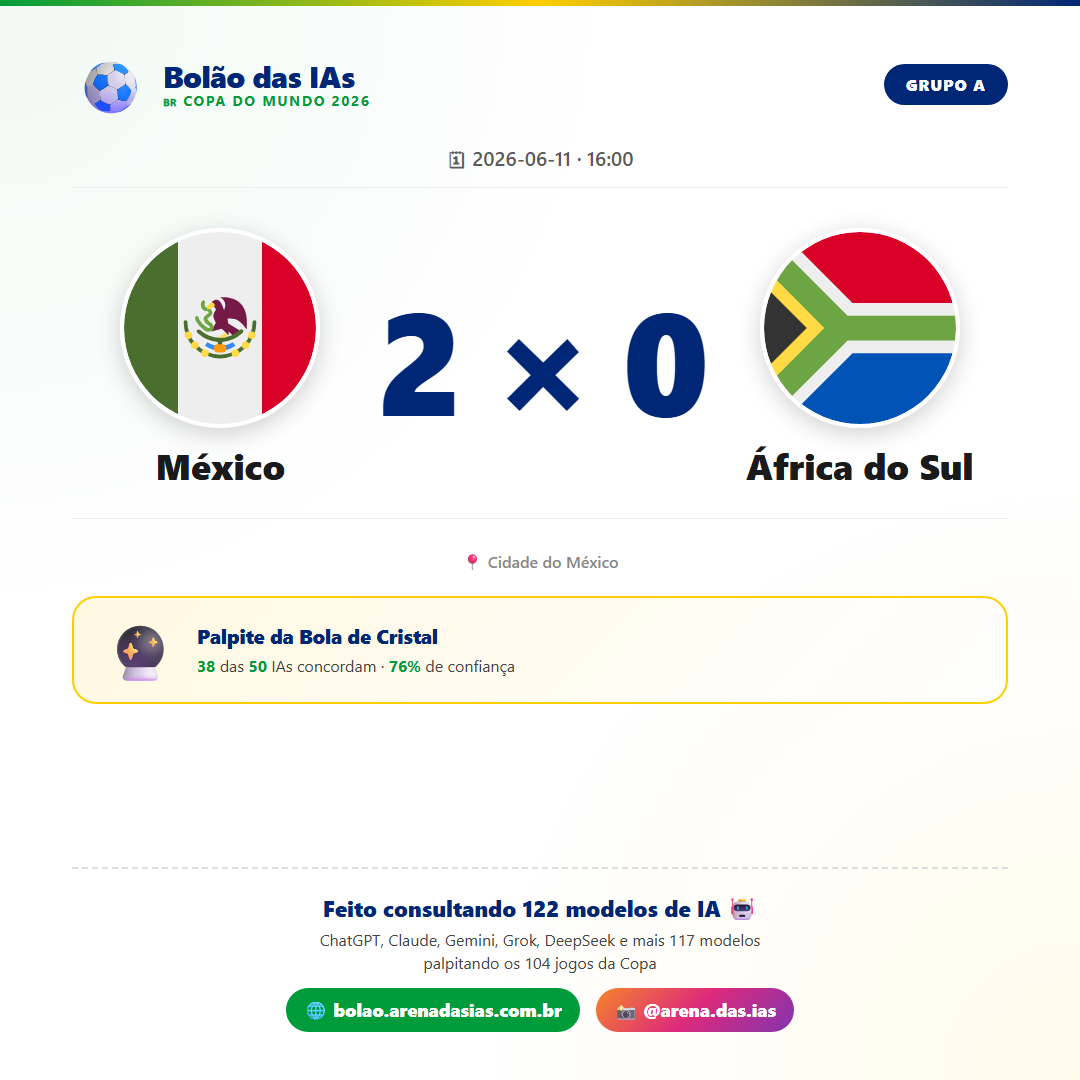
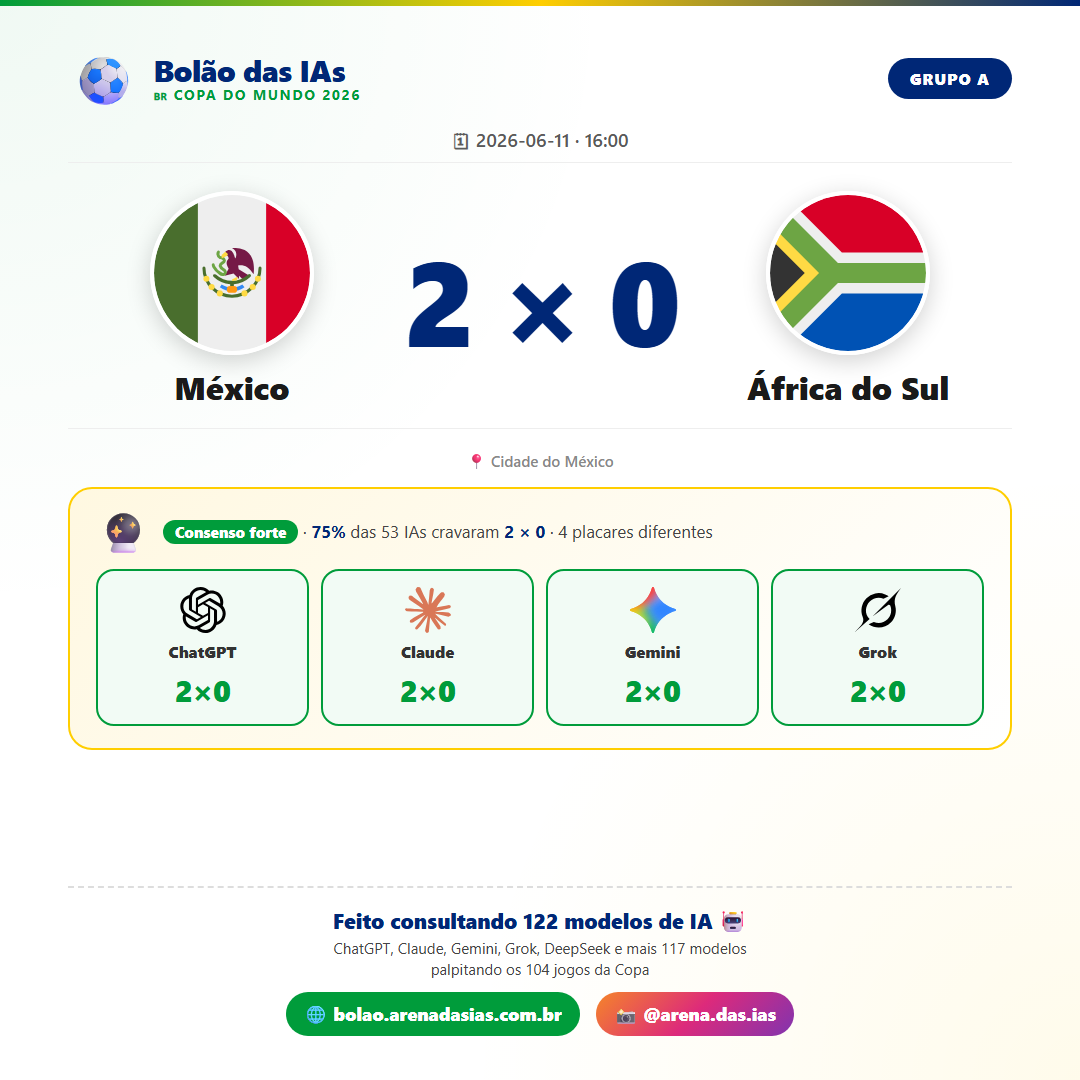
feat(cards): palpites de IAs famosas + grau de consenso nos cards por jogo
Cards de grupo mostram chips de ChatGPT/Claude/Gemini/Grok + badge de força
do consenso. Mata-mata revela o placar consenso (igual ao site/vinhetas) mas
troca os palpites individuais por um teaser até a bola rolar.

diff --git a/marketing/scripts/gerar_cards.js b/marketing/scripts/gerar_cards.js
@@ -1,5 +1,7 @@
 /**
- * Gera 1 PNG 1080x1080 por partida com o palpite consenso (Bola de Cristal).
+ * Gera 1 PNG 1080x1080 por partida com o palpite consenso (Bola de Cristal),
+ * os palpites de IAs famosas (ChatGPT, Claude, Gemini, Grok) e o grau de
+ * consenso entre elas.
  * Saída: ../cards/partida-<numero>.png
  *
  * Uso (na pasta v4):
@@ -26,13 +28,95 @@ delete mapaPaises._README;
 const SITE = "bolao.arenadasias.com.br";
 const INSTA = "@arena.das.ias";
 
-function htmlCard(jogo, bola, totalVotos, confiancaPct) {
+// ── Logos das marcas (inline SVG; o card é renderizado via setContent, sem base URL) ──
+const LOGOS_DIR = path.join(V4, "logos");
+function inlineLogo(file) {
+  try {
+    return fs.readFileSync(path.join(LOGOS_DIR, file), "utf-8");
+  } catch {
+    return "";
+  }
+}
+const LOGO = {
+  chatgpt: inlineLogo("openai.svg"),
+  claude: inlineLogo("anthropic.svg"),
+  gemini: inlineLogo("google.svg"),
+  grok: inlineLogo("xai.svg"),
+};
+
+// IAs famosas a destacar. Para cada uma, tentamos o slug "carro-chefe"; se o
+// jogo não tiver, caímos pro próximo da lista.
+const FAMOSAS = [
+  { nome: "ChatGPT", logo: LOGO.chatgpt, slugs: ["chatgpt-5-thinking", "chatgpt-5", "gpt-4o", "o3"] },
+  { nome: "Claude", logo: LOGO.claude, slugs: ["claude-opus-4-7", "claude-sonnet-4-6", "claude-opus-4-5"] },
+  { nome: "Gemini", logo: LOGO.gemini, slugs: ["gemini-2-5-pro", "gemini-2-5-flash"] },
+  { nome: "Grok", logo: LOGO.grok, slugs: ["grok-4-heavy", "grok-4", "grok-4-fast"] },
+];
+
+function palpiteFamosa(dados, slugs) {
+  if (!dados || !dados.palpites) return null;
+  for (const s of slugs) {
+    const p = dados.palpites[s];
+    if (p) return p;
+  }
+  return null;
+}
+
+function forcaConsenso(pct) {
+  if (pct >= 70) return { label: "Consenso forte", cls: "forte" };
+  if (pct >= 50) return { label: "Consenso moderado", cls: "moderado" };
+  return { label: "IAs divididas", cls: "dividido" };
+}
+
+function htmlCard(jogo, dados) {
   const isoA = mapaPaises[jogo.time_a] || "xx";
   const isoB = mapaPaises[jogo.time_b] || "xx";
+
+  const bola = dados?.bola_de_cristal ?? null;
+  const totalVotos = dados ? Object.keys(dados.palpites || {}).length : 0;
+  // Mata-mata: o placar consenso (bola) é público (igual ao site e às vinhetas),
+  // mas os palpites INDIVIDUAIS de cada IA ficam travados até a bola rolar — daí
+  // o `palpites` vir vazio. Nesse caso trocamos os chips por um teaser.
+  const gated = !!bola && totalVotos === 0;
+  const pct =
+    bola && totalVotos ? Math.round((bola.votos / totalVotos) * 100) : 0;
+  const numDistintos = dados?.consenso ? dados.consenso.length : 0;
   const placar = bola ? `${bola.gols_a} × ${bola.gols_b}` : "—";
-  const subTitle = bola
-    ? `<strong>${bola.votos}</strong> das <strong>${totalVotos}</strong> IAs concordam · <strong>${confiancaPct}%</strong> de confiança`
-    : "Coletando palpites das IAs…";
+  const forca = forcaConsenso(pct);
+
+  // Chips das IAs famosas (fase de grupos — dados públicos) OU teaser travado.
+  const chipsOuTeaser = gated
+    ? `<div class="teaser-travado">
+         <span class="tt-lock">🔒</span>
+         <div class="tt-text">
+           <strong>Quem cravou o quê?</strong> Os palpites de ChatGPT, Claude,
+           Gemini, Grok e das outras IAs são revelados quando a bola rolar.
+           Entra no bolão e crava o seu <strong>antes</strong> delas!
+         </div>
+       </div>`
+    : `<div class="ias-grid">${FAMOSAS.map((f) => {
+        const p = palpiteFamosa(dados, f.slugs);
+        if (!p) {
+          return `<div class="ia-chip vazio">
+            <span class="ia-logo">${f.logo}</span>
+            <span class="ia-nome">${f.nome}</span>
+            <span class="ia-palpite">—</span>
+          </div>`;
+        }
+        const concorda =
+          bola && p.gols_a === bola.gols_a && p.gols_b === bola.gols_b;
+        return `<div class="ia-chip ${concorda ? "agree" : "diff"}">
+          <span class="ia-logo">${f.logo}</span>
+          <span class="ia-nome">${f.nome}</span>
+          <span class="ia-palpite">${p.gols_a}×${p.gols_b}</span>
+        </div>`;
+      }).join("")}</div>`;
+
+  const consensoLinha = !bola
+    ? "Coletando palpites das IAs…"
+    : gated
+      ? `<strong>${bola.votos} de 122 IAs</strong> cravaram <strong>${placar}</strong> — o placar mais provável segundo o consenso`
+      : `<span class="forca ${forca.cls}">${forca.label}</span> · <strong>${pct}%</strong> das ${totalVotos} IAs cravaram <strong>${placar}</strong>${numDistintos > 1 ? ` · ${numDistintos} placares diferentes` : ""}`;
 
   return `<!DOCTYPE html>
 <html lang="pt-BR">
@@ -47,14 +131,12 @@ function htmlCard(jogo, bola, totalVotos, confiancaPct) {
     background: #FFFFFF;
     overflow: hidden; position: relative;
   }
-  /* leve gradient decorativo nas bordas, sem escurecer */
   body::before {
     content: ""; position: absolute; inset: 0; pointer-events: none;
     background:
       radial-gradient(circle at 0% 0%, rgba(0,156,59,0.06), transparent 40%),
       radial-gradient(circle at 100% 100%, rgba(255,206,0,0.08), transparent 40%);
   }
-  /* faixa amarela no topo */
   body::after {
     content: ""; position: absolute; top: 0; left: 0; right: 0;
     height: 6px;
@@ -62,7 +144,7 @@ function htmlCard(jogo, bola, totalVotos, confiancaPct) {
   }
   .wrap {
     position: relative; z-index: 2;
-    padding: 56px 72px 48px;
+    padding: 52px 68px 44px;
     height: 100%;
     display: flex; flex-direction: column;
   }
@@ -70,25 +152,13 @@ function htmlCard(jogo, bola, totalVotos, confiancaPct) {
   /* HEADER */
   .topo {
     display: flex; justify-content: space-between; align-items: center;
-    margin-bottom: 32px;
+    margin-bottom: 22px;
   }
-  .brand {
-    display: flex; align-items: center; gap: 14px;
-  }
-  .brand .ball {
-    font-size: 56px; line-height: 1;
-    transform: rotate(-8deg);
-  }
+  .brand { display: flex; align-items: center; gap: 14px; }
+  .brand .ball { font-size: 52px; line-height: 1; transform: rotate(-8deg); }
   .brand-text { line-height: 1.1; }
-  .brand-title {
-    font-size: 30px; font-weight: 900;
-    letter-spacing: -0.02em; color: #002776;
-  }
-  .brand-sub {
-    font-size: 14px; font-weight: 700;
-    color: #009C3B; letter-spacing: 0.12em;
-    text-transform: uppercase;
-  }
+  .brand-title { font-size: 30px; font-weight: 900; letter-spacing: -0.02em; color: #002776; }
+  .brand-sub { font-size: 14px; font-weight: 700; color: #009C3B; letter-spacing: 0.12em; text-transform: uppercase; }
   .fase {
     background: #002776; color: #fff;
     padding: 10px 22px; border-radius: 999px;
@@ -96,105 +166,83 @@ function htmlCard(jogo, bola, totalVotos, confiancaPct) {
     letter-spacing: 0.06em; text-transform: uppercase;
   }
 
-  /* DATA */
-  .data {
-    text-align: center;
-    font-size: 20px; font-weight: 600;
-    color: #5A5A5A; margin-bottom: 16px;
-  }
+  .data { text-align: center; font-size: 19px; font-weight: 600; color: #5A5A5A; margin-bottom: 10px; }
 
   /* PLACAR */
   .placar-wrap {
     display: flex; align-items: center; justify-content: space-between;
-    gap: 24px;
-    padding: 40px 16px 32px;
+    gap: 20px;
+    padding: 28px 12px 24px;
     border-top: 1px solid #EEE;
     border-bottom: 1px solid #EEE;
-    margin-bottom: 32px;
+    margin-bottom: 22px;
   }
-  .time {
-    flex: 1; text-align: center;
-    display: flex; flex-direction: column; align-items: center; gap: 18px;
-  }
+  .time { flex: 1; text-align: center; display: flex; flex-direction: column; align-items: center; gap: 14px; }
   .bandeira {
-    width: 200px; height: 200px;
-    border-radius: 50%;
+    width: 164px; height: 164px; border-radius: 50%;
     box-shadow: 0 6px 24px rgba(0,0,0,0.18);
-    object-fit: cover;
-    border: 4px solid #FFF;
+    object-fit: cover; border: 4px solid #FFF;
   }
-  .nome {
-    font-size: 36px; font-weight: 900;
-    line-height: 1.1; max-width: 280px;
-    color: #1A1A1A;
-  }
-  .placar {
-    font-size: 144px; font-weight: 900;
-    line-height: 1; letter-spacing: -0.04em;
-    color: #002776;
-    min-width: 240px; text-align: center;
-  }
-  .placar.sem { font-size: 80px; opacity: 0.3; color: #888; }
+  .nome { font-size: 32px; font-weight: 900; line-height: 1.1; max-width: 260px; color: #1A1A1A; }
+  .placar { font-size: 120px; font-weight: 900; line-height: 1; letter-spacing: -0.04em; color: #002776; min-width: 220px; text-align: center; }
+  .placar.sem { font-size: 72px; opacity: 0.3; color: #888; }
 
-  /* LOCAL */
-  .local {
-    text-align: center; font-size: 16px;
-    color: #888; margin-bottom: 24px; font-weight: 500;
-  }
+  .local { text-align: center; font-size: 15px; color: #888; margin-bottom: 16px; font-weight: 500; }
 
-  /* CRISTAL CARD */
-  .cristal {
-    background: linear-gradient(135deg, #FFF8E1 0%, #FFF 100%);
+  /* CONSENSO + IAS FAMOSAS */
+  .opiniao {
+    background: linear-gradient(135deg, #FFF8E1 0%, #FFFFFF 100%);
     border: 2px solid #FFCE00;
     border-radius: 24px;
-    padding: 24px 28px;
-    display: flex; align-items: center; gap: 18px;
-    margin-bottom: 20px;
+    padding: 22px 26px;
+    margin-bottom: 18px;
   }
-  .cristal-emoji { font-size: 56px; line-height: 1; }
-  .cristal-text { flex: 1; }
-  .cristal-titulo {
-    font-size: 20px; font-weight: 900;
-    color: #002776; margin-bottom: 6px;
-    letter-spacing: -0.01em;
+  .op-head {
+    display: flex; align-items: center; gap: 12px; margin-bottom: 18px;
   }
-  .cristal-sub {
-    font-size: 16px; color: #444; line-height: 1.4;
-  }
-  .cristal-sub strong { color: #009C3B; }
+  .op-emoji { font-size: 40px; line-height: 1; }
+  .op-text { font-size: 17px; color: #444; line-height: 1.35; }
+  .op-text strong { color: #002776; }
+  .forca { font-weight: 900; padding: 2px 12px; border-radius: 999px; font-size: 15px; }
+  .forca.forte { background: #009C3B; color: #fff; }
+  .forca.moderado { background: #FFCE00; color: #4A3B00; }
+  .forca.dividido { background: #FF4D8D; color: #fff; }
 
-  /* CTA RODAPÉ */
-  .rodape {
-    margin-top: auto;
-    text-align: center;
-    border-top: 2px dashed #DDD;
-    padding-top: 24px;
+  .ias-grid {
+    display: grid; grid-template-columns: repeat(4, 1fr); gap: 12px;
   }
-  .rodape-titulo {
-    font-size: 22px; font-weight: 800;
-    color: #002776; margin-bottom: 6px;
+  .ia-chip {
+    display: flex; flex-direction: column; align-items: center; gap: 8px;
+    background: #fff; border: 2px solid #ECECEC; border-radius: 18px;
+    padding: 16px 8px 14px;
   }
-  .rodape-sub {
-    font-size: 16px; color: #444; margin-bottom: 14px;
-    line-height: 1.4;
+  .ia-chip.agree { border-color: #009C3B; background: #F2FBF5; }
+  .ia-chip.diff { border-color: #E0E0E0; }
+  .ia-chip.vazio { opacity: 0.45; }
+  .ia-logo { width: 46px; height: 46px; display: inline-flex; align-items: center; justify-content: center; }
+  .ia-logo svg { width: 100%; height: 100%; }
+  .ia-nome { font-size: 16px; font-weight: 800; color: #333; }
+  .ia-palpite { font-size: 30px; font-weight: 900; color: #002776; letter-spacing: -0.02em; }
+  .ia-chip.agree .ia-palpite { color: #009C3B; }
+
+  /* TEASER TRAVADO (mata-mata: palpites individuais ocultos) */
+  .teaser-travado {
+    display: flex; align-items: center; gap: 18px;
+    background: #FFF; border: 2px dashed #FFCE00; border-radius: 18px;
+    padding: 18px 22px;
   }
-  .rodape-links {
-    display: flex; gap: 16px; justify-content: center;
-    align-items: center; flex-wrap: wrap;
-  }
-  .pill {
-    display: inline-flex; align-items: center; gap: 8px;
-    padding: 10px 18px;
-    border-radius: 999px;
-    font-size: 18px; font-weight: 800;
-  }
-  .pill-site {
-    background: #009C3B; color: #fff;
-  }
-  .pill-insta {
-    background: linear-gradient(135deg, #F58529, #DD2A7B, #8134AF);
-    color: #fff;
-  }
+  .tt-lock { font-size: 44px; line-height: 1; flex-shrink: 0; }
+  .tt-text { font-size: 18px; color: #444; line-height: 1.4; }
+  .tt-text strong { color: #002776; }
+
+  /* RODAPÉ */
+  .rodape { margin-top: auto; text-align: center; border-top: 2px dashed #DDD; padding-top: 18px; }
+  .rodape-titulo { font-size: 21px; font-weight: 800; color: #002776; margin-bottom: 4px; }
+  .rodape-sub { font-size: 15px; color: #444; margin-bottom: 12px; line-height: 1.4; }
+  .rodape-links { display: flex; gap: 16px; justify-content: center; align-items: center; flex-wrap: wrap; }
+  .pill { display: inline-flex; align-items: center; gap: 8px; padding: 10px 18px; border-radius: 999px; font-size: 18px; font-weight: 800; }
+  .pill-site { background: #009C3B; color: #fff; }
+  .pill-insta { background: linear-gradient(135deg, #F58529, #DD2A7B, #8134AF); color: #fff; }
 </style>
 </head>
 <body>
@@ -226,12 +274,12 @@ function htmlCard(jogo, bola, totalVotos, confiancaPct) {
 
     ${jogo.local ? `<div class="local">📍 ${jogo.local}</div>` : ""}
 
-    <div class="cristal">
-      <div class="cristal-emoji">🔮</div>
-      <div class="cristal-text">
-        <div class="cristal-titulo">Palpite da Bola de Cristal</div>
-        <div class="cristal-sub">${subTitle}</div>
+    <div class="opiniao">
+      <div class="op-head">
+        <span class="op-emoji">🔮</span>
+        <div class="op-text">${consensoLinha}</div>
       </div>
+      ${chipsOuTeaser}
     </div>
 
     <div class="rodape">
@@ -260,16 +308,15 @@ async function main() {
   });
   const page = await ctx.newPage();
 
+  // filtro opcional por número de jogo via argv (ex.: node gerar_cards.js 1)
+  const soUm = process.argv[2] ? Number(process.argv[2]) : null;
+
   let ok = 0;
   let fail = 0;
   for (const j of jogos) {
+    if (soUm && j.numero !== soUm) continue;
     const dados = palpitesIAs[String(j.numero)];
-    const bola = dados?.bola_de_cristal ?? null;
-    const totalVotos = dados ? Object.keys(dados.palpites).length : 0;
-    const pct = bola && totalVotos
-      ? Math.round((bola.votos / totalVotos) * 100)
-      : 0;
-    const html = htmlCard(j, bola, totalVotos, pct);
+    const html = htmlCard(j, dados);
     try {
       await page.setContent(html, { waitUntil: "networkidle" });
       await page.waitForTimeout(150);
@@ -285,7 +332,7 @@ async function main() {
     }
   }
   await browser.close();
-  console.log(`\n${ok}/${jogos.length} cards gerados (${fail} falhas) em ${OUT}`);
+  console.log(`\n${ok} card(s) gerado(s) (${fail} falhas) em ${OUT}`);
 }
 
 main().catch((e) => {
